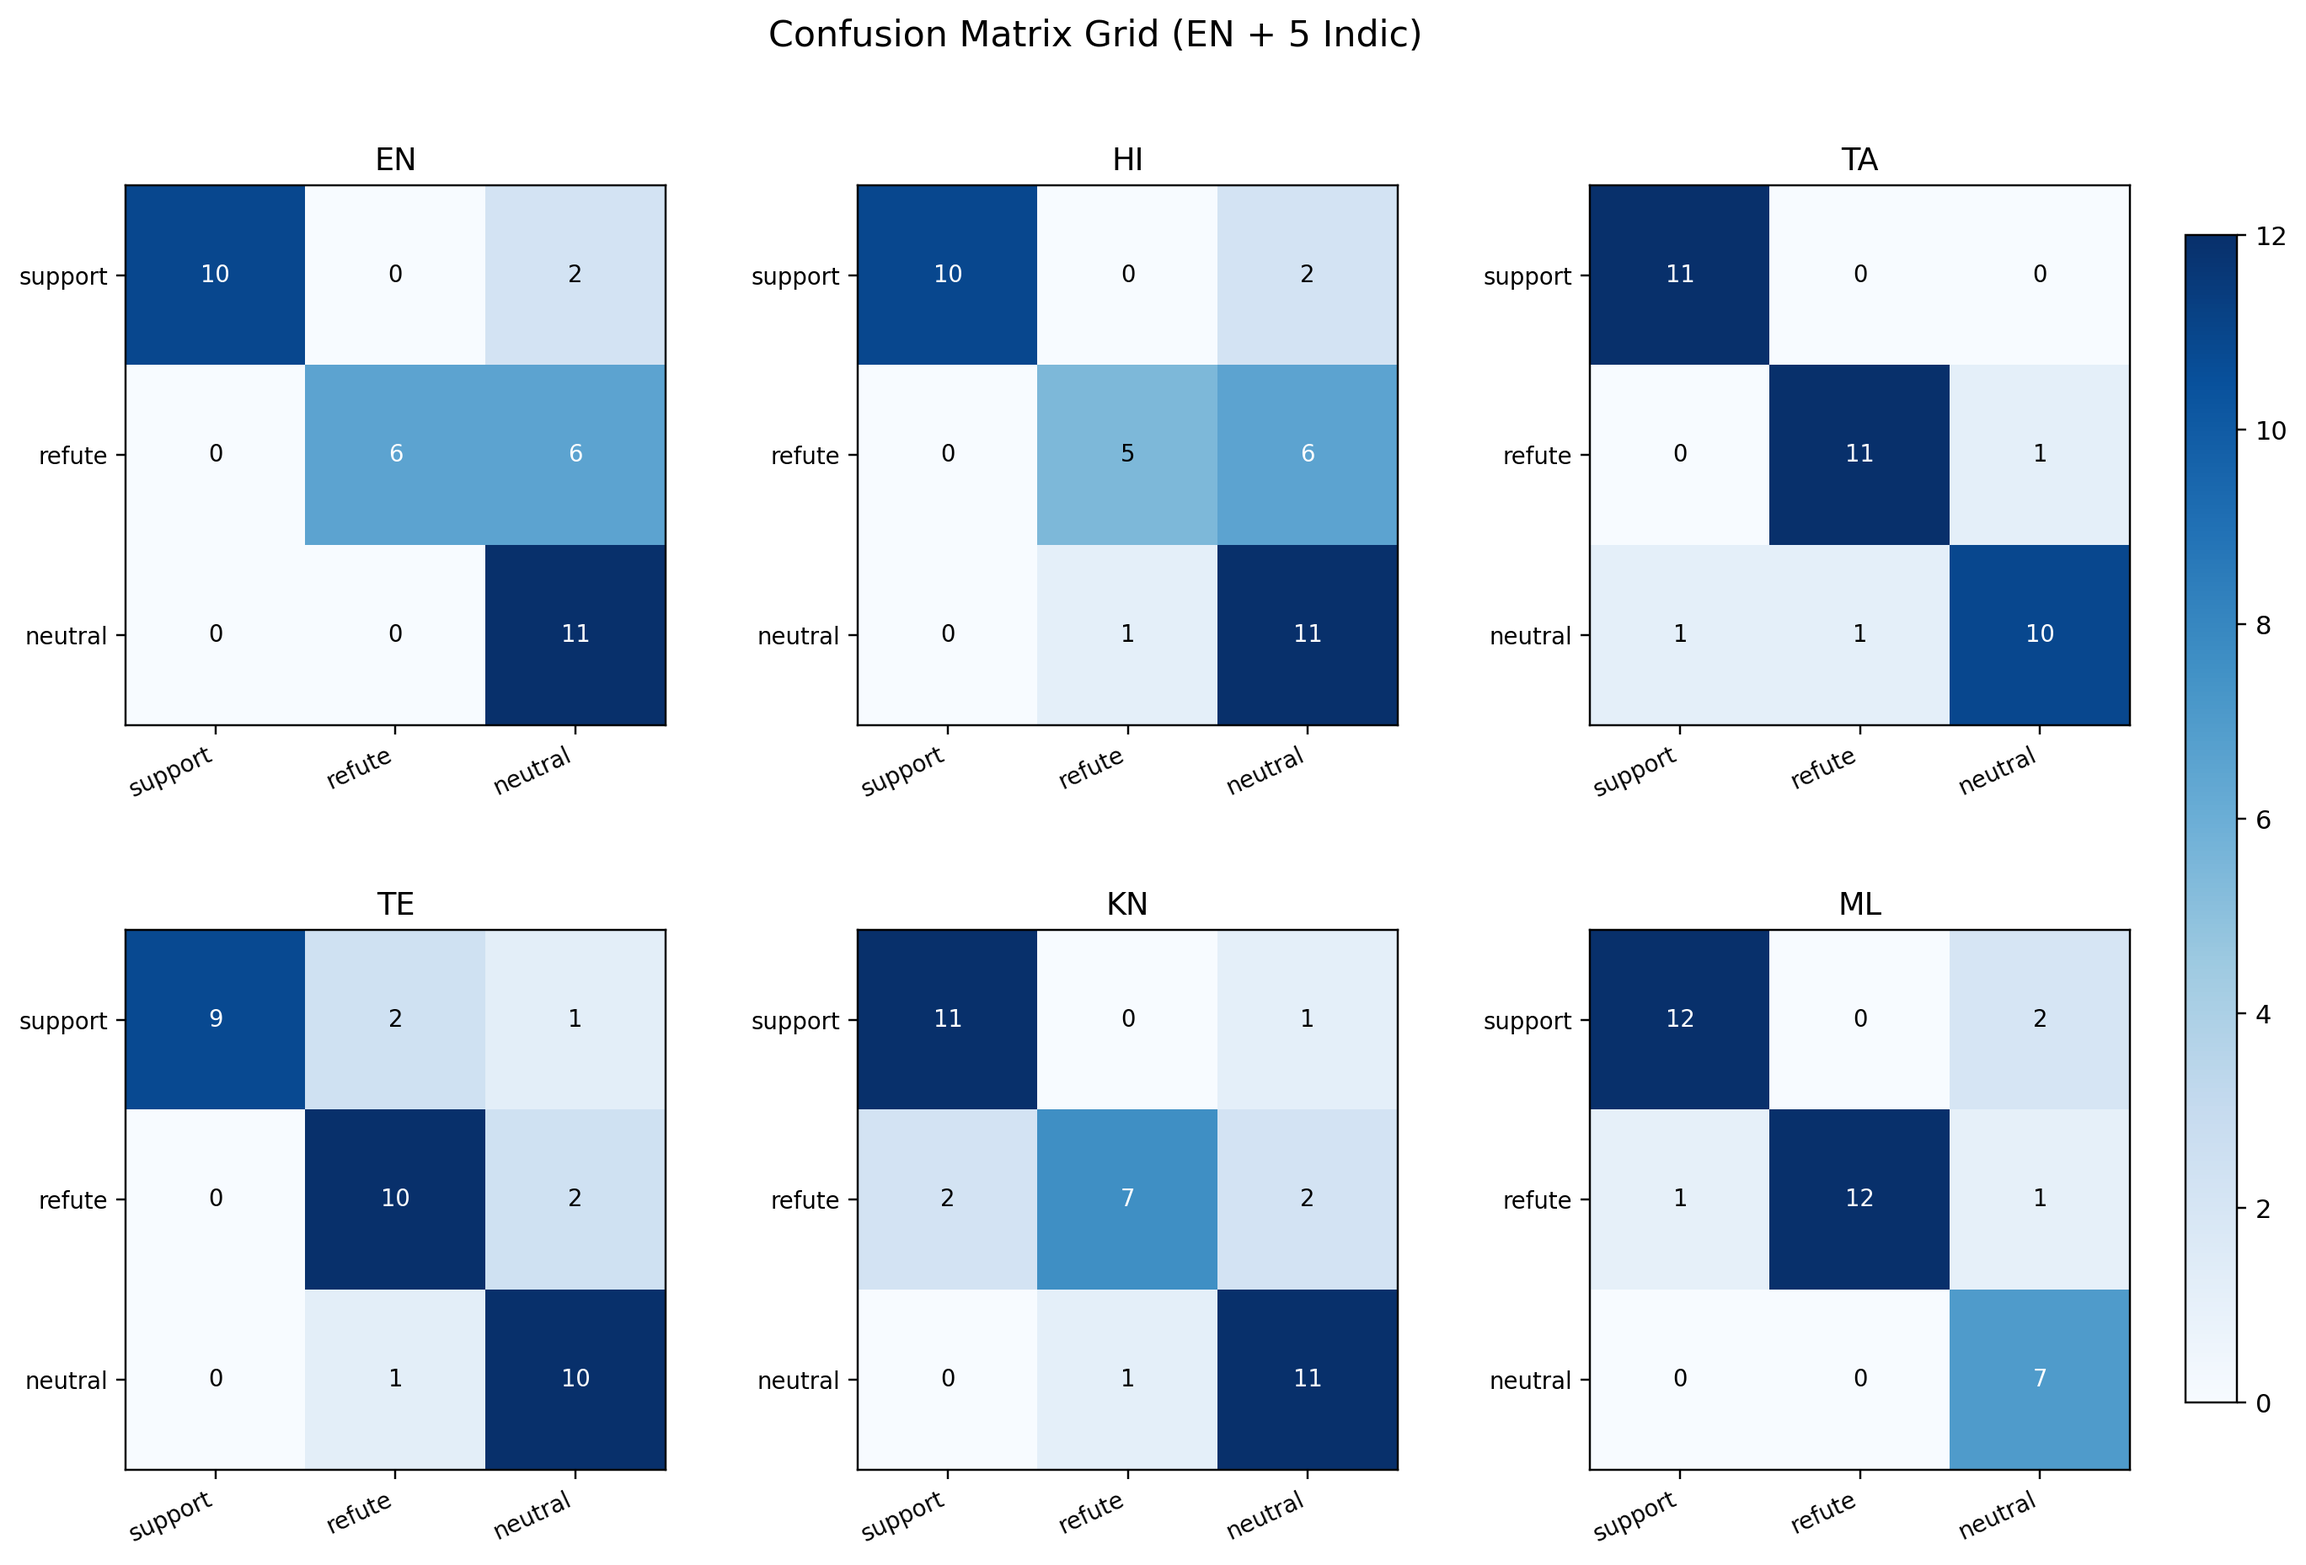
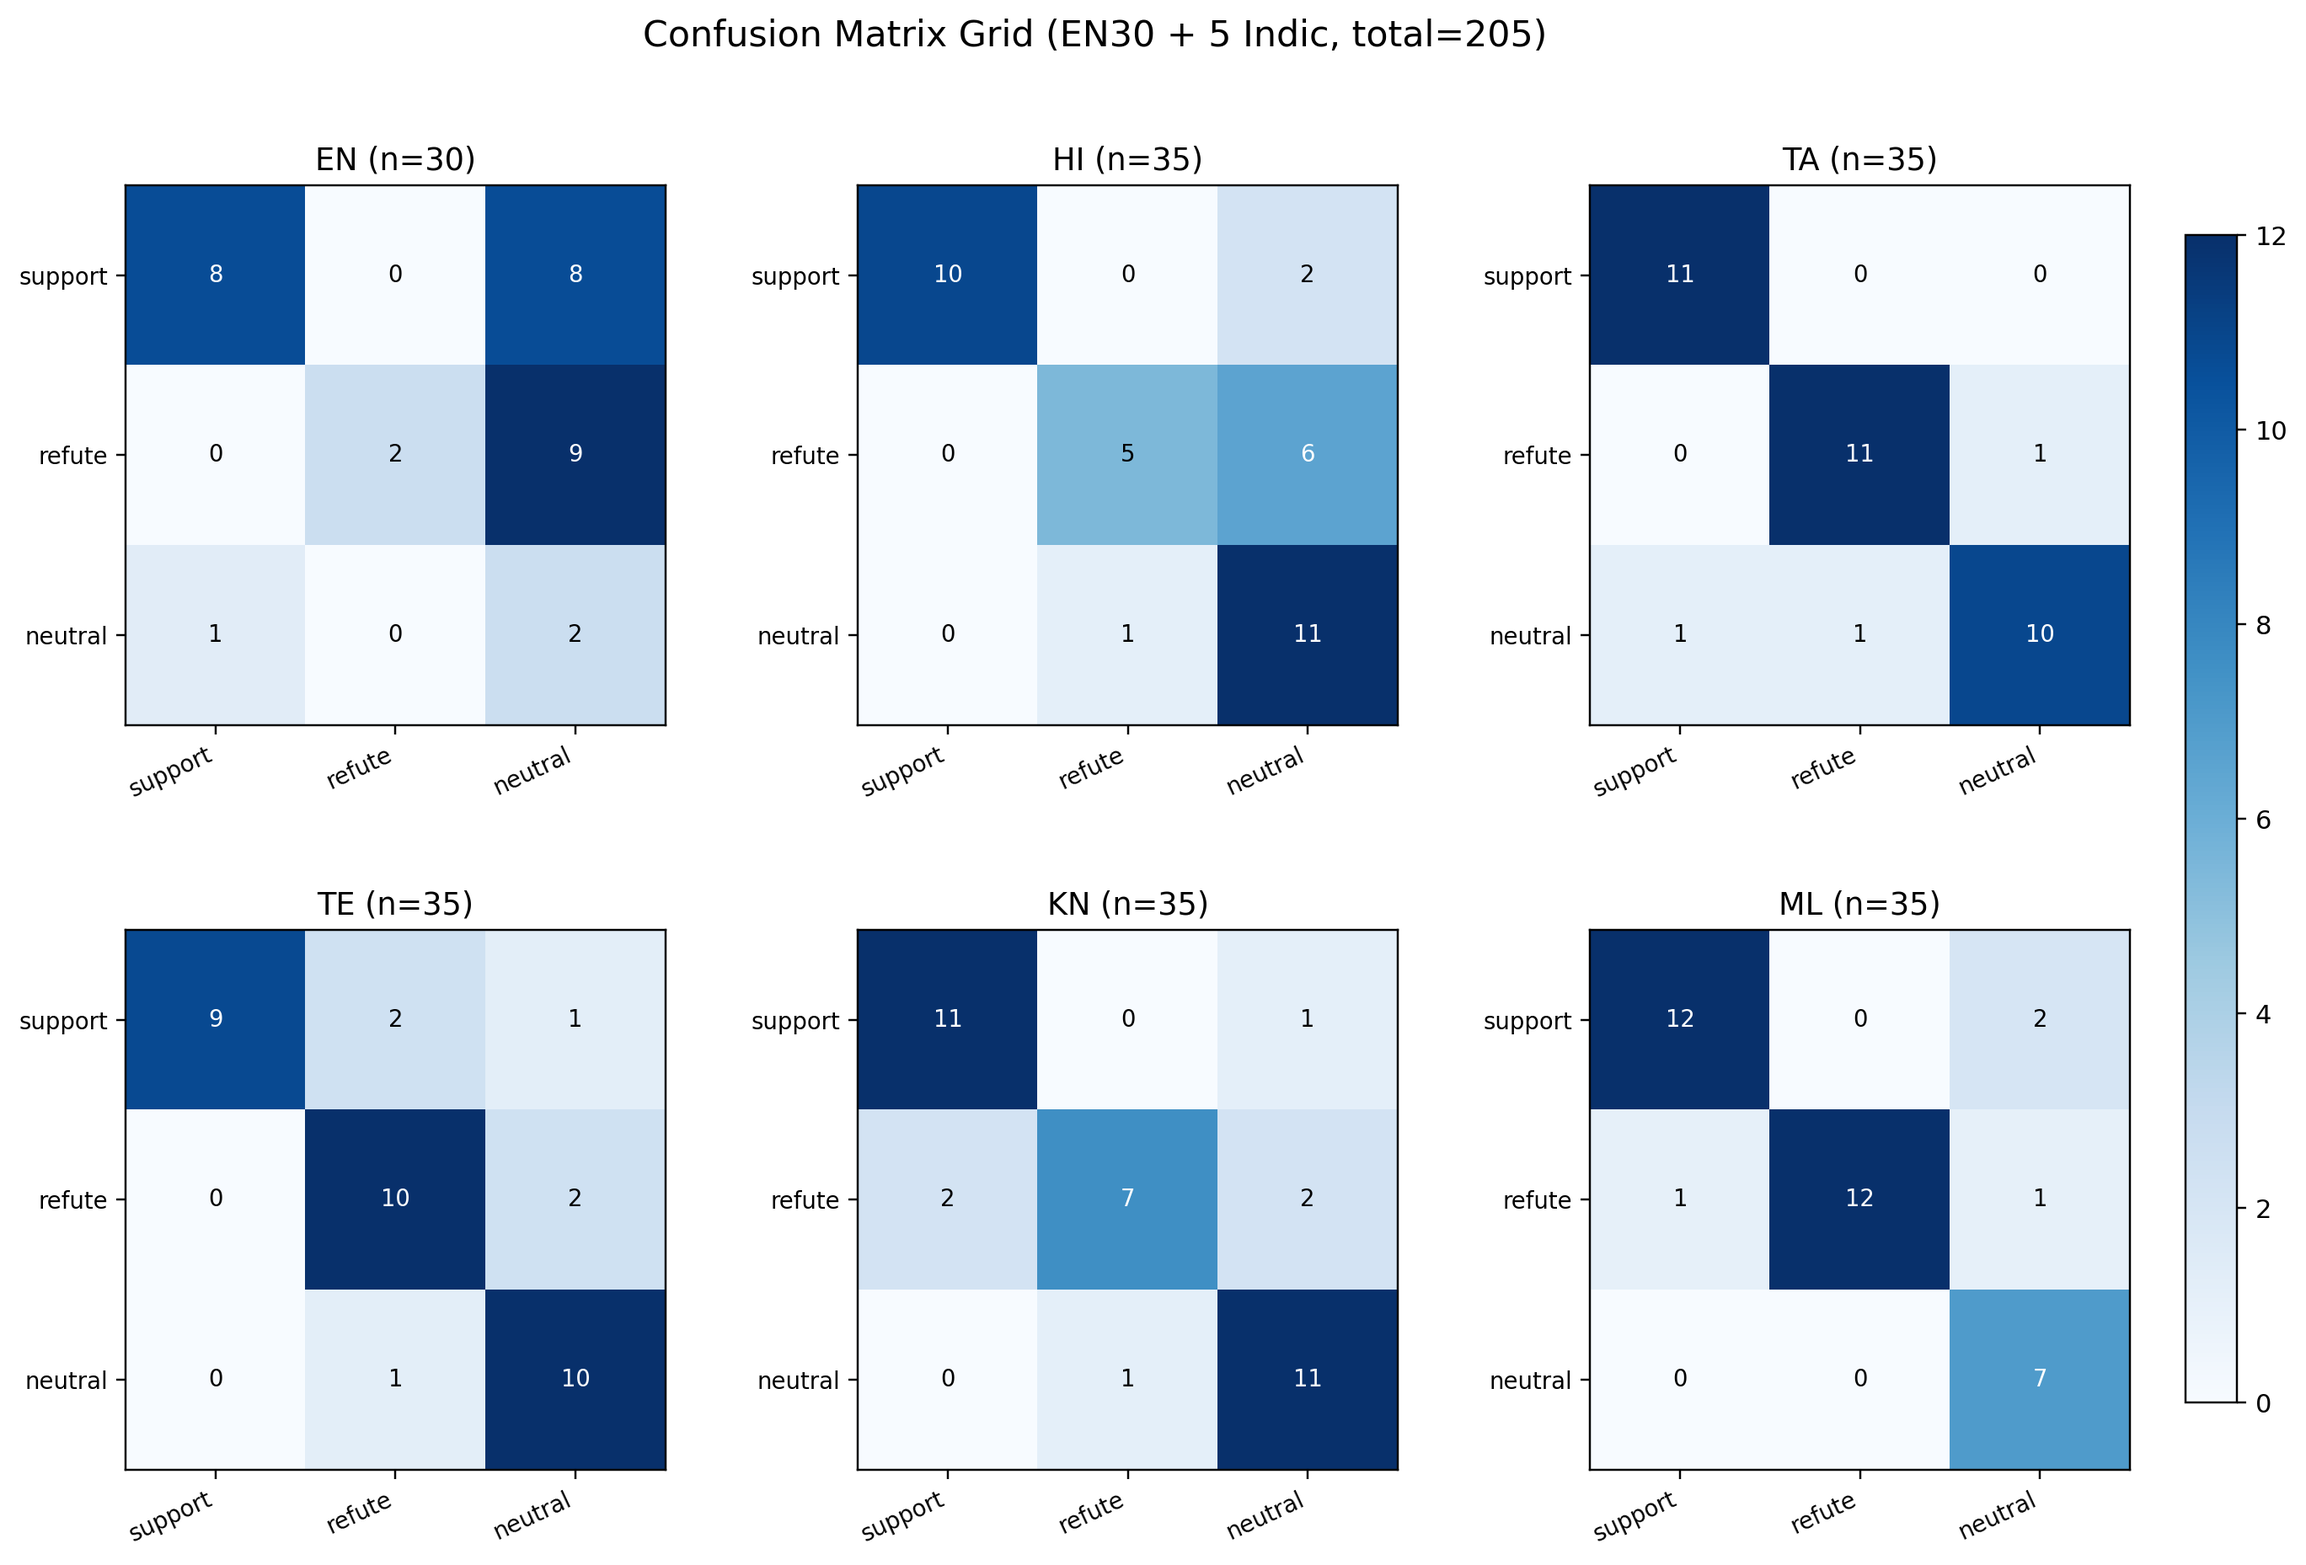
docs(eval): update appendix index and confusion artifacts

diff --git a/Research_Evaluation/01_docs/APPENDIX_INDEX.md b/Research_Evaluation/01_docs/APPENDIX_INDEX.md
@@ -1,0 +1,31 @@
+# Appendix Index (Paper Supplement)
+
+This index lists supplementary artifacts referenced by Appendix sections in the paper.
+
+## A2 Full Per-Language Metrics
+- `Research_Evaluation/03_tables/official_metrics_snapshot.csv`
+- `Research_Evaluation/03_tables/metrics_summary.csv`
+
+## A3 Confusion Matrices
+- EN+5 language grid (EN=30, HI/TA/TE/KN/ML=35 each):
+  - `Research_Evaluation/04_figures/confusion_matrix_all_6_grid.png`
+  - `Research_Evaluation/04_figures/confusion_matrix_combined_all_6.png`
+  - `Research_Evaluation/03_tables/confusion_matrix_by_language.csv`
+  - `Research_Evaluation/03_tables/verdict_counts_6lang_with_combined.json`
+  - `Research_Evaluation/03_tables/verdict_counts_by_language.csv`
+- MULTI-only (175 claims, 5 languages):
+  - `Research_Evaluation/04_figures/confusion_multi_175_5lang.png`
+  - `Research_Evaluation/03_tables/confusion_multi_175_5lang.csv`
+
+## A4 LLM Verifier Ablation
+- `Research_Evaluation/03_tables_llm_pre_post/llm_interventions_by_language.csv`
+- `Research_Evaluation/03_tables_llm_pre_post/pre_vs_post_accuracy_by_language.csv`
+- `Research_Evaluation/04_figures_llm_pre_post/`
+
+## A5 Model and Training Lineage
+- `docs/MODEL_INVENTORY_AND_3MONTH_TIMELINE.md`
+- `docs/LOCKED_PIPELINES.md`
+
+## A6 Reproducibility
+- `Research_Evaluation/manifest.json`
+- `Research_Evaluation/README.md`
